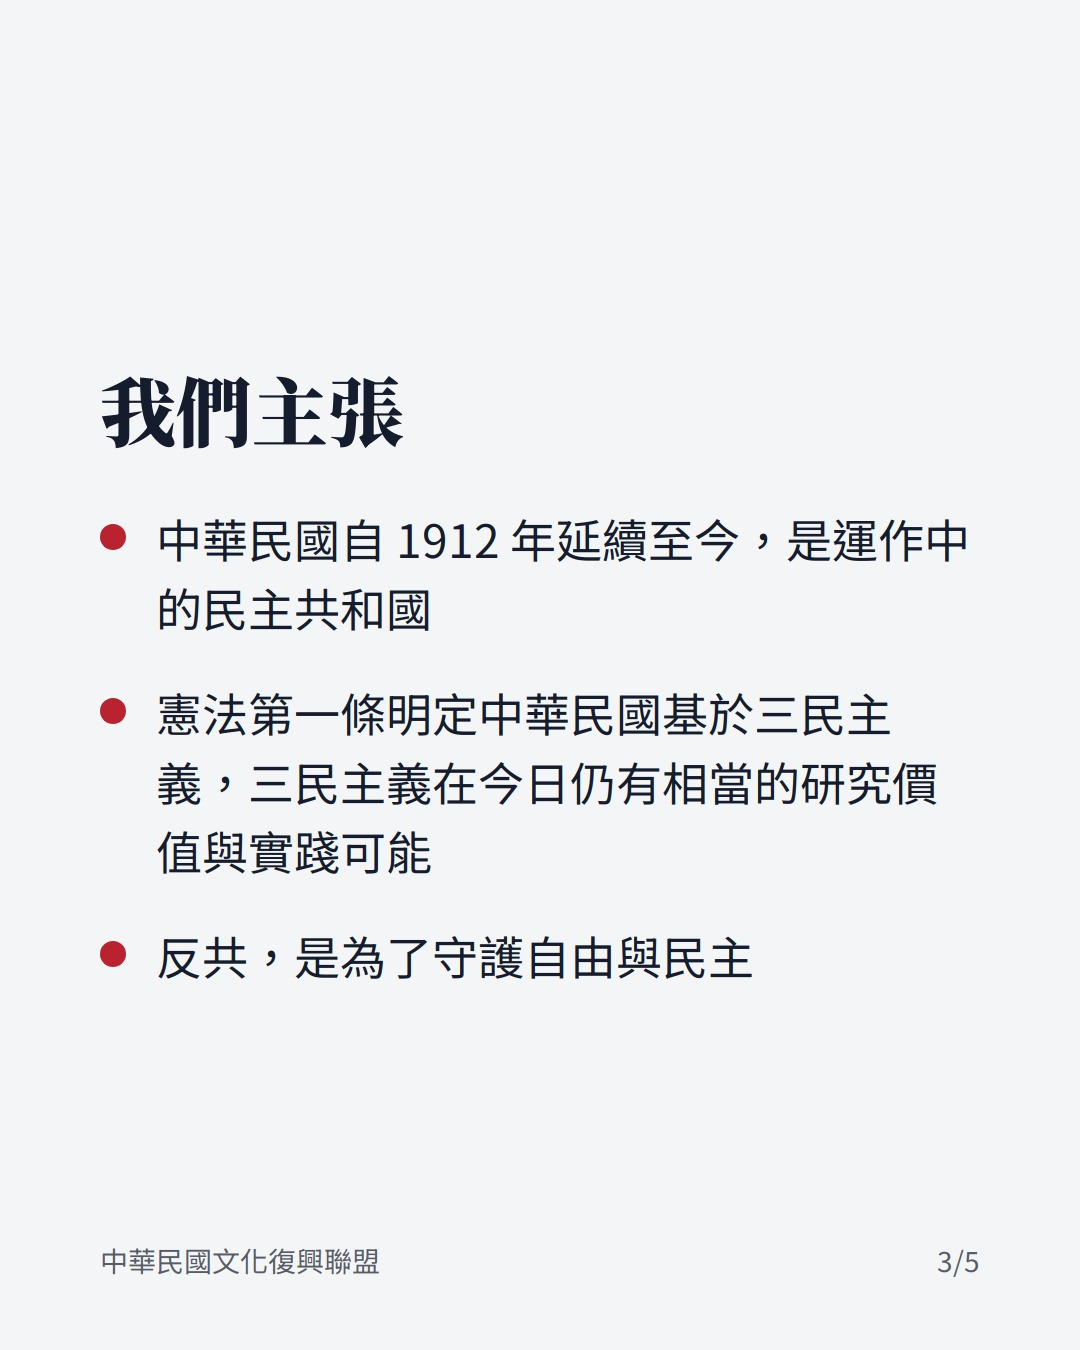
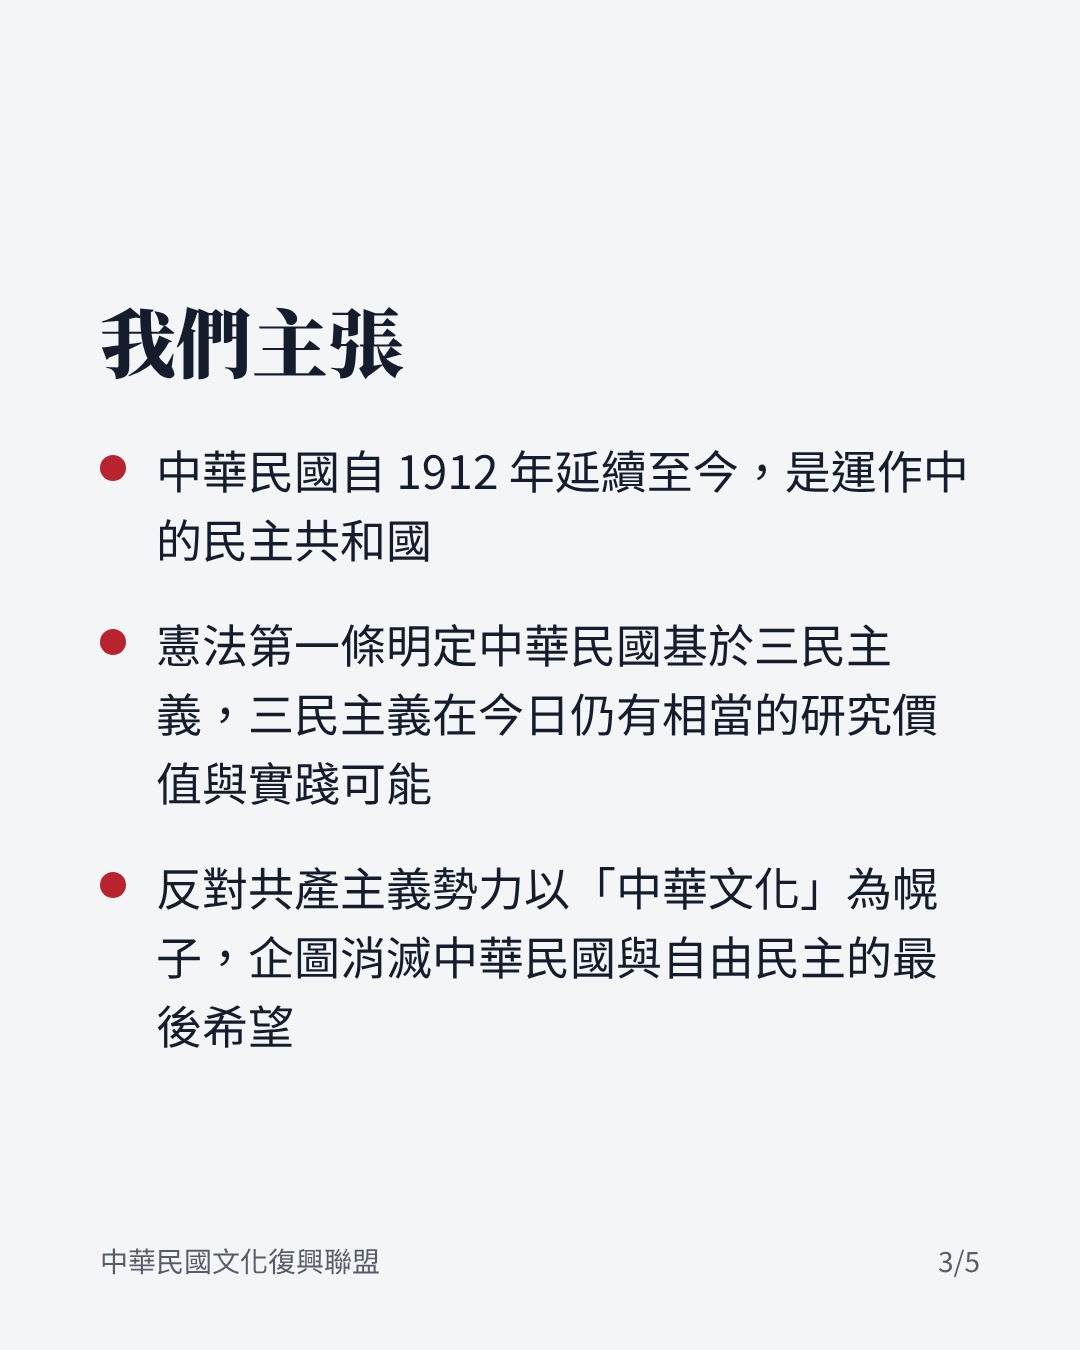
成立宣言換成審定版文字，輪播與網站同步
Claude-Session: https://claude.ai/code/session_01TexqmyAAmVL75pyU1EWzVc

diff --git a/docs/index.html b/docs/index.html
@@ -87,7 +87,7 @@ a{color:var(--plum)}
 <ol>
 <li><strong>中華民國是延續的國家。</strong>民國元年（1912 年）建立至今，國號、憲法與政府從未中斷。它不是歷史名詞，而是今天仍在運作的民主共和國。</li>
 <li><strong>三民主義在今日仍有研究價值與實踐可能。</strong>《中華民國憲法》第一條寫著：「中華民國基於三民主義，為民有民治民享之民主共和國。」民族平等、主權在民、民生均富，至今仍值得深入研究，也仍有實踐的可能。</li>
-<li><strong>反共是為了守護自由。</strong>共產極權以一黨專政取代人民主權，與民權主義根本相違。我們反對的是這套制度，不是任何一個民族或個人。</li>
+<li><strong>反對共產主義勢力以「中華文化」為幌子，企圖消滅中華民國。</strong>中華民國是中華民族自由與民主的最後希望。共產極權以一黨專政取代人民主權，與民權主義根本相違。我們反對的是這套制度，不是任何一個民族或個人。</li>
 </ol>
 
 <h2>我們要做的事</h2>

diff --git a/content.py b/content.py
@@ -2,16 +2,16 @@
 # 修改文章只改這個檔，再執行 build.py 重新產生網站、貼文稿與 IG 圖。
 
 # 成立宣言的社群貼文：IG 與 Threads 用同一份文字（IG 另加標籤）
-MANIFESTO_POST = """中華民國文化復興聯盟，今天正式成立。
+MANIFESTO_POST = """中華民國文化復興聯盟，今天於中華民國115年台灣光復節正式成立。
 
 我們是民間自發的團體，與任何政府機關、政黨都沒有隸屬關係。我們主張：
 ・中華民國自 1912 年延續至今，是運作中的民主共和國
-・憲法第一條明定中華民國基於三民主義，三民主義在今日仍然有相當的研究價值與實踐可能
-・反共，是為了守護自由與民主
+・中華民國憲法第一條明定中華民國基於三民主義，三民主義在今日仍然有相當的研究價值與實踐可能
+・反對共產主義勢力以「中華文化」為幌子，企圖消滅中華民國以及中華民族自由與民主的最後希望
 
 我們會以有出處的史料介紹中華民國的歷史，重新研究與闡釋三民主義的理念及其對於我們今日現狀的啟發，並推廣傳統文化道德價值，如忠孝仁愛信義和平。
 
-聯盟志在集結志同道合的正義力量。不論個人、社團、學者或媒體，歡迎任何形式的合作，請直接私訊本帳號。
+本聯盟志在集結志同道合的正義力量。不論個人、社團、學者或媒體，歡迎任何形式的合作，請直接私訊本帳號。
 
 完整宣言請看個人檔案連結。
 （本文為中華民國文化復興聯盟立場）"""
@@ -34,7 +34,7 @@ ARTICLES = [
 <ol>
 <li><strong>中華民國是延續的國家。</strong>民國元年（1912 年）建立至今，國號、憲法與政府從未中斷。它不是歷史名詞，而是今天仍在運作的民主共和國。</li>
 <li><strong>三民主義在今日仍有研究價值與實踐可能。</strong>《中華民國憲法》第一條寫著：「中華民國基於三民主義，為民有民治民享之民主共和國。」民族平等、主權在民、民生均富，至今仍值得深入研究，也仍有實踐的可能。</li>
-<li><strong>反共是為了守護自由。</strong>共產極權以一黨專政取代人民主權，與民權主義根本相違。我們反對的是這套制度，不是任何一個民族或個人。</li>
+<li><strong>反對共產主義勢力以「中華文化」為幌子，企圖消滅中華民國。</strong>中華民國是中華民族自由與民主的最後希望。共產極權以一黨專政取代人民主權，與民權主義根本相違。我們反對的是這套制度，不是任何一個民族或個人。</li>
 </ol>
 
 <h2>我們要做的事</h2>
@@ -58,9 +58,9 @@ ARTICLES = [
 <p>如果你也認同這些理念，歡迎追蹤我們，一起把這些故事說下去。</p>
 """,
         "ig_slides": [
-            {"kind": "cover", "kicker": "聯盟宣言", "head": "中華民國\n文化復興聯盟\n成立了", "sub": "民國一一五年十月"},
+            {"kind": "cover", "kicker": "聯盟宣言", "head": "中華民國\n文化復興聯盟\n成立了", "sub": "民國一一五年臺灣光復節"},
             {"kind": "text", "head": "名字的由來", "body": "1966 年文革「破四舊」摧毀大量古蹟與典籍。\n同年，臺灣發起「中華文化復興運動」回應。\n我們延續這份精神：守住正體字、經典與禮俗，也守住自由。"},
-            {"kind": "list", "head": "我們主張", "items": ["中華民國自 1912 年延續至今，是運作中的民主共和國", "憲法第一條明定中華民國基於三民主義，三民主義在今日仍有相當的研究價值與實踐可能", "反共，是為了守護自由與民主"]},
+            {"kind": "list", "head": "我們主張", "items": ["中華民國自 1912 年延續至今，是運作中的民主共和國", "憲法第一條明定中華民國基於三民主義，三民主義在今日仍有相當的研究價值與實踐可能", "反對共產主義勢力以「中華文化」為幌子，企圖消滅中華民國與自由民主的最後希望"]},
             {"kind": "list", "head": "我們要做的事", "items": ["以有出處的史料介紹中華民國歷史", "重新研究與闡釋三民主義，及其對今日的啟發", "推廣傳統文化道德價值：忠孝仁愛信義和平"]},
             {"kind": "text", "head": "集結志同道合", "body": "我們志在集結\n認同中華民國、捍衛自由的正義力量。\n\n個人、社團、學者、媒體，\n歡迎任何形式的合作。\n\n私訊本帳號，與我們聯絡。"},
         ],

diff --git a/posts/01-manifesto.md b/posts/01-manifesto.md
@@ -11,19 +11,19 @@
 4. docs/ig/01-manifesto-4.jpg
 5. docs/ig/01-manifesto-5.jpg
 
-貼文說明（335 字，上限 2,200）：
+貼文說明（384 字，上限 2,200）：
 
 ```
-中華民國文化復興聯盟，今天正式成立。
+中華民國文化復興聯盟，今天於中華民國115年台灣光復節正式成立。
 
 我們是民間自發的團體，與任何政府機關、政黨都沒有隸屬關係。我們主張：
 ・中華民國自 1912 年延續至今，是運作中的民主共和國
-・憲法第一條明定中華民國基於三民主義，三民主義在今日仍然有相當的研究價值與實踐可能
-・反共，是為了守護自由與民主
+・中華民國憲法第一條明定中華民國基於三民主義，三民主義在今日仍然有相當的研究價值與實踐可能
+・反對共產主義勢力以「中華文化」為幌子，企圖消滅中華民國以及中華民族自由與民主的最後希望
 
 我們會以有出處的史料介紹中華民國的歷史，重新研究與闡釋三民主義的理念及其對於我們今日現狀的啟發，並推廣傳統文化道德價值，如忠孝仁愛信義和平。
 
-聯盟志在集結志同道合的正義力量。不論個人、社團、學者或媒體，歡迎任何形式的合作，請直接私訊本帳號。
+本聯盟志在集結志同道合的正義力量。不論個人、社團、學者或媒體，歡迎任何形式的合作，請直接私訊本帳號。
 
 完整宣言請看個人檔案連結。
 （本文為中華民國文化復興聯盟立場）
@@ -33,19 +33,19 @@
 
 ## Threads
 
-（296 字，上限 500）
+（345 字，上限 500）
 
 ```
-中華民國文化復興聯盟，今天正式成立。
+中華民國文化復興聯盟，今天於中華民國115年台灣光復節正式成立。
 
 我們是民間自發的團體，與任何政府機關、政黨都沒有隸屬關係。我們主張：
 ・中華民國自 1912 年延續至今，是運作中的民主共和國
-・憲法第一條明定中華民國基於三民主義，三民主義在今日仍然有相當的研究價值與實踐可能
-・反共，是為了守護自由與民主
+・中華民國憲法第一條明定中華民國基於三民主義，三民主義在今日仍然有相當的研究價值與實踐可能
+・反對共產主義勢力以「中華文化」為幌子，企圖消滅中華民國以及中華民族自由與民主的最後希望
 
 我們會以有出處的史料介紹中華民國的歷史，重新研究與闡釋三民主義的理念及其對於我們今日現狀的啟發，並推廣傳統文化道德價值，如忠孝仁愛信義和平。
 
-聯盟志在集結志同道合的正義力量。不論個人、社團、學者或媒體，歡迎任何形式的合作，請直接私訊本帳號。
+本聯盟志在集結志同道合的正義力量。不論個人、社團、學者或媒體，歡迎任何形式的合作，請直接私訊本帳號。
 
 完整宣言請看個人檔案連結。
 （本文為中華民國文化復興聯盟立場）
